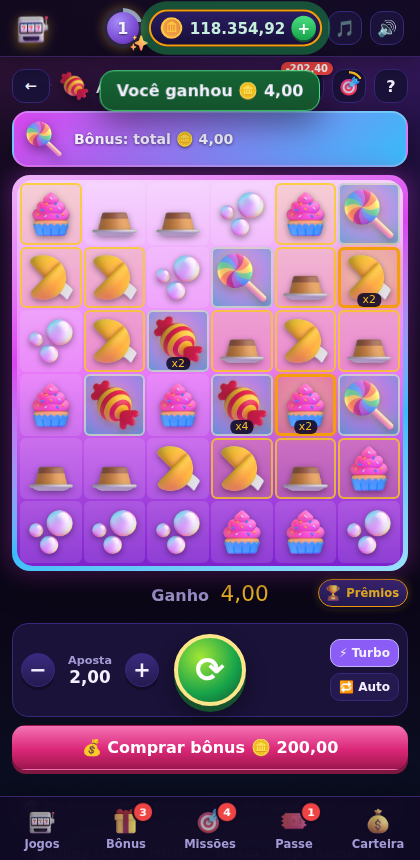
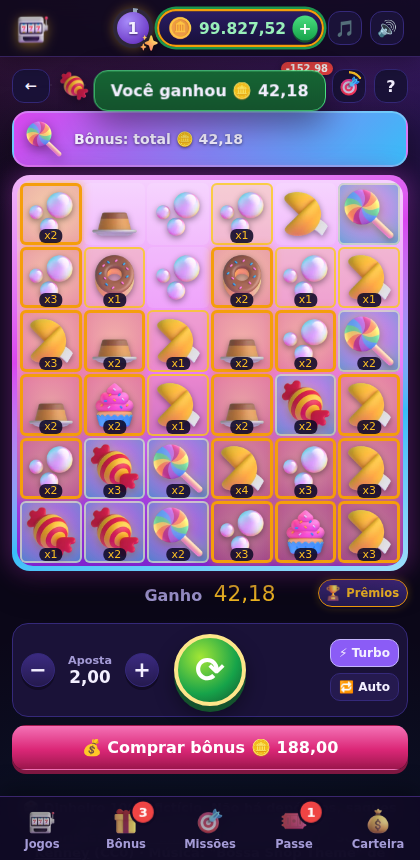
Rework Açúcar Supremo with real Powernudge and +1 multiplier spots
Claude-Session: https://claude.ai/code/session_01Ne4MrBCfmx5mhNPYe66ukP

diff --git a/js/games/pragmatic3.js b/js/games/pragmatic3.js
@@ -616,15 +616,72 @@
     }));
   })();
 
-  /* 35. Açúcar Supremo Powernudge — 6×6 com posições multiplicadoras */
-  App.register(T.clusterSpots({
-    id: 'acucarsupremo', name: 'Açúcar Supremo Powernudge', studio: STUDIO, art: 'candy', mascot: 'lollipop',
-    tag: '6×6 · posições até x128', colors: ['#d946ef', '#38bdf8'], bg: 'linear-gradient(180deg,#f5d0fe,#e879f9 50%,#7e22ce)',
-    intro: 'Inspirado no "Sugar Supreme Powernudge" (Pragmatic Play).', maxWin: 5000, cap: 128, n: 6,
-    syms: rushSyms([['bala', 'candy', 'Bala'], ['pirulito', 'lollipop', 'Pirulito'], ['donut', 'doughnut', 'Rosquinha'], ['cupcake', 'cupcake', 'Cupcake'], ['chiclete', 'gumball', 'Chiclete'], ['jujuba', 'jelly', 'Jujuba'], ['biscoito', 'cookie', 'Biscoito']]),
-    scImg: 'birthday', scName: 'Bolo', scW: 0.5, fsTable: { 3: 10, 4: 12, 5: 15, 6: 20, 7: 20 },
-    highlights: ['🍬 6×6 com grupos e cascata (<b>Powernudge</b>: tudo que vence desce e abre espaço)', '✨ Posições vencedoras viram multiplicadores que dobram até <b>x128</b>', '3/4/5/6 bolos = <b>10/12/15/20 rodadas grátis</b> com as posições guardadas', 'Prêmio máximo: <b>5.000x</b>'],
-  }));
+  /* 35. Açúcar Supremo Powernudge — 6×6 em grupos com Powernudge e posições multiplicadoras */
+  (() => {
+    const N = 6, CAP = 100;
+    const SY = rushSyms([['bala', 'candy', 'Bala'], ['pirulito', 'lollipop', 'Pirulito'], ['donut', 'doughnut', 'Rosquinha'], ['cupcake', 'cupcake', 'Cupcake'], ['chiclete', 'gumball', 'Chiclete'], ['jujuba', 'jelly', 'Jujuba'], ['biscoito', 'cookie', 'Biscoito']]).map((x, i) => (i >= 4 ? { ...x, fw: x.w * 1.35 } : x));
+    const SC = { id: 'sc', img: 'birthday', name: 'Bolo', sc: true, w: 0.5, fw: 0 };
+    const FS = { 3: 10, 4: 12, 5: 15, 6: 20 };
+    const draw = pool([...SY, SC]);
+    const make = wk => grid(Array(N).fill(N), c => draw(c, wk));
+    const fresh = () => Array.from({ length: N }, () => new Array(N).fill(0));
+    /** mostra os biscoitos multiplicadores (x1, x2...) nas posições marcadas */
+    const deco = (g, sp) => g.forEach((col, c) => col.forEach((x, r) => {
+      if (x.sc) return;
+      const v = sp[c][r];
+      x.c = v >= 2 ? 'mult' : v === 1 ? 'mark' : '';
+      x.t = v ? 'x' + v : undefined;
+    }));
+    /**
+     * Uma sequência: paga os grupos (cada grupo × soma dos multiplicadores sob ele), marca/soma +1
+     * nas posições vencedoras e, se o Powernudge entrar, empurra para baixo cada rolo com símbolo
+     * vencedor (um símbolo novo entra no topo). Repete enquanto houver ganho.
+     */
+    async function play(rt, g, wk, sp, always) {
+      let nudging = false;
+      for (let step = 0; step < 40; step++) {
+        const cl = clusters(g, 5);
+        const res = payClusters(cl, TT, k => k.cells.reduce((sum, kk) => { const [c, r] = unkey(kk); return sum + sp[c][r]; }, 0) || 1);
+        if (!res.total) break;
+        await pay(rt, res);
+        res.cells.forEach(kk => { const [c, r] = unkey(kk); sp[c][r] = Math.min(CAP, sp[c][r] + 1); });
+        deco(g, sp);
+        if (!nudging) { if (!always && RNG.float() >= 0.4) break; nudging = true; rt.msg('🍭 Powernudge!'); rt.fx('rise'); }
+        const cols = [...new Set([...res.cells].map(kk => unkey(kk)[0]))];
+        cols.forEach(c => { g[c] = [{ ...draw(c, wk), fresh: true }, ...g[c].slice(0, N - 1)]; });
+        deco(g, sp);
+        await rt.drop(g);
+      }
+    }
+    App.register(K.create({
+      id: 'acucarsupremo', name: 'Açúcar Supremo Powernudge', studio: STUDIO, art: 'candy', mascot: 'lollipop',
+      tag: '6×6 · Powernudge · biscoitos multiplicadores', colors: ['#d946ef', '#38bdf8'], bg: 'linear-gradient(180deg,#f5d0fe,#e879f9 50%,#7e22ce)',
+      cols: N, rows: N, maxWin: 5000, vol: 4, rtp: '~96,1%', target: 0.961,
+      intro: 'Inspirado no "Sugar Supreme Powernudge" (Pragmatic Play).', hello: 'Grupos de 5+ doces iguais pagam!',
+      symbols: [...SY, SC],
+      tables: [table('Pagamento por tamanho do grupo', CLH, SY, 'Grupos de 5+ iguais encostados (na horizontal ou vertical).')],
+      highlights: ['🍬 6×6 em grupos: <b>5 ou mais</b> doces iguais encostados pagam', '🍭 <b>Powernudge:</b> depois de um ganho, todo rolo com símbolo vencedor <b>desce uma casa</b> e entra um doce novo no topo, enquanto houver ganho', '🍪 Cada posição vencedora deixa um <b>biscoito multiplicador</b> que começa em x1 e ganha <b>+1</b> a cada novo ganho nela; os multiplicadores sob um grupo <b>se somam</b>', '🎂 3/4/5/6 bolos = <b>10/12/15/20 rodadas grátis</b>: Powernudge em <b>todo</b> ganho e biscoitos que <b>ficam até o fim</b>', 'Prêmio máximo: <b>5.000x</b>'],
+      how: '<p>Grade <b>6×6</b> que paga por grupos de 5 ou mais símbolos iguais encostados. Depois de um giro com ganho, o <b>Powernudge</b> pode entrar: os rolos que têm símbolo vencedor descem uma posição (um símbolo novo aparece no topo) e o jogo avalia de novo; isso se repete enquanto sair ganho.</p><p>🍪 Toda posição que participa de um ganho ganha um biscoito <b>x1</b>; cada novo ganho na mesma posição soma <b>+1</b> (até x100). Um grupo é multiplicado pela <b>soma</b> dos biscoitos sob ele. No jogo base os biscoitos somem no fim do giro.</p>',
+      features: `<p>🎂 <b>3, 4, 5 ou 6 bolos</b> dão <b>10, 12, 15 ou 20 rodadas grátis</b>. Nelas o Powernudge entra em <b>todo</b> giro com ganho e os biscoitos multiplicadores <b>ficam na grade até o fim</b> do bônus.</p>${fsTab(FS)}`,
+      make: () => make('w'),
+      async spin(rt) {
+        const g = make('w');
+        await rt.spin(g);
+        const sc = count(g, x => x.sc);
+        await play(rt, g, 'w', fresh(), false);
+        if (sc >= 3) { rt.mark(scatters(g)); await rt.wait(1000); await this.bonus(rt, { sc }); }
+      },
+      async bonus(rt, { sc = 3 } = {}) {
+        const sp = fresh();
+        await rt.fsLoop(FS[Math.min(6, Math.max(3, sc))], async () => {
+          const g = make('fw');
+          deco(g, sp);
+          await rt.spin(g, { tease: false });
+          await play(rt, g, 'fw', sp, true);
+        }, { sub: 'Powernudge sempre · biscoitos ficam' });
+      },
+    }));
+  })();
 
   /* 36. Estouro de Fogo (Fire Stampede) — conecte e colete */
   (() => {

diff --git a/js/games/calib.js b/js/games/calib.js
@@ -4,7 +4,7 @@
 const SLOT_CALIB = {
   "abelhasgrudentas": {"k":2.7622,"buy":79,"hit":0.3522,"fs":0.0027},
   "acampamentotrator": {"k":0.74461,"buy":60,"hit":0.313,"fs":0.00206},
-  "acucarsupremo": {"k":5.7914,"buy":71,"hit":0.2264,"fs":0.003},
+  "acucarsupremo": {"k":0.84014,"buy":94,"hit":0.225,"fs":0.0028},
   "aguiaalfa": {"k":0.24114,"buy":21,"hit":0.3287,"fs":0.00227},
   "alibaba": {"k":0.043217,"buy":45,"hit":0.5122,"fs":0.00262},
   "alterego": {"k":0.72933,"buy":113,"hit":0.5171,"fs":0.00281},

diff --git a/README.md b/README.md
@@ -88,7 +88,7 @@ Recriações com nomes e artes próprios dos slots mais jogados de cada estúdio
 | Princesa do Crepúsculo | Twilight Princess | Coringas x2 a x10 colantes · 7.500x | ~96,5% | 7.500x |
 | Coringa Infectante | Infective Wild | Infecção vira coringas · 40 linhas | ~96,5% | 5.000x |
 | Pilhas de Madeira | Timber Stacks | Até 100.000 caminhos | ~96,5% | 10.000x |
-| Açúcar Supremo Powernudge | Sugar Supreme Powernudge | 6×6 · posições até x128 | ~96,5% | 5.000x |
+| Açúcar Supremo Powernudge | Sugar Supreme Powernudge | 6×6 · Powernudge · biscoitos multiplicadores | ~96,1% | 5.000x |
 | Estouro de Fogo | Fire Stampede | Respin com jackpots até 4.000x | ~96,5% | 5.000x |
 | O Alter Ego | The Alter Ego | Mistérios · até 100.000 caminhos | ~96,5% | 10.000x |
 | Pompeia Megareels Megaways | Pompeii Megareels Megaways | Rolos que crescem até 8 · 10.000x | ~96,5% | 10.000x |
